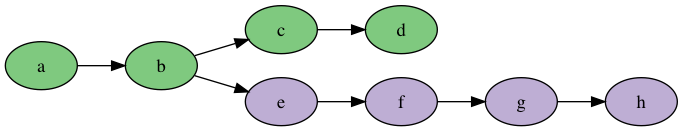
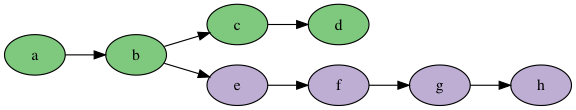
git -- size of images

diff --git a/git.html b/git.html
@@ -4,7 +4,7 @@
 <html xmlns="http://www.w3.org/1999/xhtml" lang="en" xml:lang="en">
 <head>
 <title>Getting Started with Git</title>
-<!-- 2017-03-30 Thu 08:39 -->
+<!-- 2017-03-30 Thu 08:53 -->
 <meta  http-equiv="Content-Type" content="text/html;charset=utf-8" />
 <meta  name="generator" content="Org-mode" />
 <meta  name="author" content="Mikael Svahnberg" />
@@ -306,7 +306,7 @@ Branches have names. The default names are <code>master</code> and <code>origin/
 
 
 <div class="figure">
-<p><img src="./images/FGitBranch2.png" alt="FGitBranch2.png" />
+<p><img src="./images/FGitBranch3.png" alt="FGitBranch3.png" />
 </p>
 </div>
 
@@ -727,7 +727,7 @@ For regular documents it is also possible to use the web interface on github to 
 <div id="postamble" class="status">
 <p class="author">Author: Mikael Svahnberg</p>
 <p class="email">Email: <a href="mailto:Mikael.Svahnberg@bth.se">Mikael.Svahnberg@bth.se</a></p>
-<p class="date">Created: 2017-03-30 Thu 08:39</p>
+<p class="date">Created: 2017-03-30 Thu 08:53</p>
 <p class="creator"><a href="http://www.gnu.org/software/emacs/">Emacs</a> 25.1.1 (<a href="http://orgmode.org">Org</a> mode 8.2.10)</p>
 <p class="validation"><a href="http://validator.w3.org/check?uri=referer">Validate</a></p>
 </div>

diff --git a/SEM-Requirements.html b/SEM-Requirements.html
@@ -4,7 +4,7 @@
 <html xmlns="http://www.w3.org/1999/xhtml" lang="en" xml:lang="en">
 <head>
 <title>Seminar: Requirements, Use Cases, Project Planning</title>
-<!-- 2017-03-30 Thu 08:43 -->
+<!-- 2017-03-30 Thu 08:53 -->
 <meta  http-equiv="Content-Type" content="text/html;charset=utf-8" />
 <meta  name="generator" content="Org-mode" />
 <meta  name="author" content="Mikael Svahnberg" />
@@ -245,7 +245,7 @@ The purpose of this seminar is to get a quick recap on the topics of requirement
 <div id="postamble" class="status">
 <p class="author">Author: Mikael Svahnberg</p>
 <p class="email">Email: <a href="mailto:Mikael.Svahnberg@bth.se">Mikael.Svahnberg@bth.se</a></p>
-<p class="date">Created: 2017-03-30 Thu 08:43</p>
+<p class="date">Created: 2017-03-30 Thu 08:53</p>
 <p class="creator"><a href="http://www.gnu.org/software/emacs/">Emacs</a> 25.1.1 (<a href="http://orgmode.org">Org</a> mode 8.2.10)</p>
 <p class="validation"><a href="http://validator.w3.org/check?uri=referer">Validate</a></p>
 </div>

diff --git a/SEM-Structure.html b/SEM-Structure.html
@@ -4,7 +4,7 @@
 <html xmlns="http://www.w3.org/1999/xhtml" lang="en" xml:lang="en">
 <head>
 <title>Seminar: Structure and Design Patterns</title>
-<!-- 2017-03-30 Thu 08:43 -->
+<!-- 2017-03-30 Thu 08:53 -->
 <meta  http-equiv="Content-Type" content="text/html;charset=utf-8" />
 <meta  name="generator" content="Org-mode" />
 <meta  name="author" content="Mikael Svahnberg" />
@@ -218,7 +218,7 @@ The purpose of this seminar is to further discuss UML Concepts and Classes, and 
 <div id="postamble" class="status">
 <p class="author">Author: Mikael Svahnberg</p>
 <p class="email">Email: <a href="mailto:Mikael.Svahnberg@bth.se">Mikael.Svahnberg@bth.se</a></p>
-<p class="date">Created: 2017-03-30 Thu 08:43</p>
+<p class="date">Created: 2017-03-30 Thu 08:53</p>
 <p class="creator"><a href="http://www.gnu.org/software/emacs/">Emacs</a> 25.1.1 (<a href="http://orgmode.org">Org</a> mode 8.2.10)</p>
 <p class="validation"><a href="http://validator.w3.org/check?uri=referer">Validate</a></p>
 </div>

diff --git a/SEM-Release3.html b/SEM-Release3.html
@@ -4,7 +4,7 @@
 <html xmlns="http://www.w3.org/1999/xhtml" lang="en" xml:lang="en">
 <head>
 <title>Seminar: Demo and Discuss Release 3</title>
-<!-- 2017-03-30 Thu 08:43 -->
+<!-- 2017-03-30 Thu 08:53 -->
 <meta  http-equiv="Content-Type" content="text/html;charset=utf-8" />
 <meta  name="generator" content="Org-mode" />
 <meta  name="author" content="Mikael Svahnberg" />
@@ -199,7 +199,7 @@ There is no specific agenda for this seminar, but rather a discussion between th
 <div id="postamble" class="status">
 <p class="author">Author: Mikael Svahnberg</p>
 <p class="email">Email: <a href="mailto:Mikael.Svahnberg@bth.se">Mikael.Svahnberg@bth.se</a></p>
-<p class="date">Created: 2017-03-30 Thu 08:43</p>
+<p class="date">Created: 2017-03-30 Thu 08:53</p>
 <p class="creator"><a href="http://www.gnu.org/software/emacs/">Emacs</a> 25.1.1 (<a href="http://orgmode.org">Org</a> mode 8.2.10)</p>
 <p class="validation"><a href="http://validator.w3.org/check?uri=referer">Validate</a></p>
 </div>

diff --git a/System-TwitterNethack.html b/System-TwitterNethack.html
@@ -4,7 +4,7 @@
 <html xmlns="http://www.w3.org/1999/xhtml" lang="en" xml:lang="en">
 <head>
 <title>System Description: TwitterNethack</title>
-<!-- 2017-03-30 Thu 08:43 -->
+<!-- 2017-03-30 Thu 08:53 -->
 <meta  http-equiv="Content-Type" content="text/html;charset=utf-8" />
 <meta  name="generator" content="Org-mode" />
 <meta  name="author" content="Mikael Svahnberg" />
@@ -343,7 +343,7 @@ We do not expect these extras to be implemented in your version of your system. 
 <div id="postamble" class="status">
 <p class="author">Author: Mikael Svahnberg</p>
 <p class="email">Email: <a href="mailto:Mikael.Svahnberg@bth.se">Mikael.Svahnberg@bth.se</a></p>
-<p class="date">Created: 2017-03-30 Thu 08:43</p>
+<p class="date">Created: 2017-03-30 Thu 08:53</p>
 <p class="creator"><a href="http://www.gnu.org/software/emacs/">Emacs</a> 25.1.1 (<a href="http://orgmode.org">Org</a> mode 8.2.10)</p>
 <p class="validation"><a href="http://validator.w3.org/check?uri=referer">Validate</a></p>
 </div>

diff --git a/SEM-Architecture.html b/SEM-Architecture.html
@@ -4,7 +4,7 @@
 <html xmlns="http://www.w3.org/1999/xhtml" lang="en" xml:lang="en">
 <head>
 <title>Seminar: Software Architectures</title>
-<!-- 2017-03-30 Thu 08:43 -->
+<!-- 2017-03-30 Thu 08:53 -->
 <meta  http-equiv="Content-Type" content="text/html;charset=utf-8" />
 <meta  name="generator" content="Org-mode" />
 <meta  name="author" content="Mikael Svahnberg" />
@@ -208,7 +208,7 @@ The purpose of this seminar is to further discuss common Software Architecture P
 <div id="postamble" class="status">
 <p class="author">Author: Mikael Svahnberg</p>
 <p class="email">Email: <a href="mailto:Mikael.Svahnberg@bth.se">Mikael.Svahnberg@bth.se</a></p>
-<p class="date">Created: 2017-03-30 Thu 08:43</p>
+<p class="date">Created: 2017-03-30 Thu 08:53</p>
 <p class="creator"><a href="http://www.gnu.org/software/emacs/">Emacs</a> 25.1.1 (<a href="http://orgmode.org">Org</a> mode 8.2.10)</p>
 <p class="validation"><a href="http://validator.w3.org/check?uri=referer">Validate</a></p>
 </div>

diff --git a/SEM-Release1.html b/SEM-Release1.html
@@ -4,7 +4,7 @@
 <html xmlns="http://www.w3.org/1999/xhtml" lang="en" xml:lang="en">
 <head>
 <title>Seminar: Discuss Release 1</title>
-<!-- 2017-03-30 Thu 08:43 -->
+<!-- 2017-03-30 Thu 08:53 -->
 <meta  http-equiv="Content-Type" content="text/html;charset=utf-8" />
 <meta  name="generator" content="Org-mode" />
 <meta  name="author" content="Mikael Svahnberg" />
@@ -194,7 +194,7 @@ The purpose of this seminar is to discuss common issues identified while marking
 <div id="postamble" class="status">
 <p class="author">Author: Mikael Svahnberg</p>
 <p class="email">Email: <a href="mailto:Mikael.Svahnberg@bth.se">Mikael.Svahnberg@bth.se</a></p>
-<p class="date">Created: 2017-03-30 Thu 08:43</p>
+<p class="date">Created: 2017-03-30 Thu 08:53</p>
 <p class="creator"><a href="http://www.gnu.org/software/emacs/">Emacs</a> 25.1.1 (<a href="http://orgmode.org">Org</a> mode 8.2.10)</p>
 <p class="validation"><a href="http://validator.w3.org/check?uri=referer">Validate</a></p>
 </div>

diff --git a/SEM-Release2.html b/SEM-Release2.html
@@ -4,7 +4,7 @@
 <html xmlns="http://www.w3.org/1999/xhtml" lang="en" xml:lang="en">
 <head>
 <title>Seminar: Discuss Release 2</title>
-<!-- 2017-03-30 Thu 08:43 -->
+<!-- 2017-03-30 Thu 08:53 -->
 <meta  http-equiv="Content-Type" content="text/html;charset=utf-8" />
 <meta  name="generator" content="Org-mode" />
 <meta  name="author" content="Mikael Svahnberg" />
@@ -194,7 +194,7 @@ The purpose of this seminar is to discuss common issues identified while marking
 <div id="postamble" class="status">
 <p class="author">Author: Mikael Svahnberg</p>
 <p class="email">Email: <a href="mailto:Mikael.Svahnberg@bth.se">Mikael.Svahnberg@bth.se</a></p>
-<p class="date">Created: 2017-03-30 Thu 08:43</p>
+<p class="date">Created: 2017-03-30 Thu 08:53</p>
 <p class="creator"><a href="http://www.gnu.org/software/emacs/">Emacs</a> 25.1.1 (<a href="http://orgmode.org">Org</a> mode 8.2.10)</p>
 <p class="validation"><a href="http://validator.w3.org/check?uri=referer">Validate</a></p>
 </div>

diff --git a/Development-Methodologies.html b/Development-Methodologies.html
@@ -4,7 +4,7 @@
 <html xmlns="http://www.w3.org/1999/xhtml" lang="en" xml:lang="en">
 <head>
 <title>Development Methodologies</title>
-<!-- 2017-03-30 Thu 08:44 -->
+<!-- 2017-03-30 Thu 08:53 -->
 <meta  http-equiv="Content-Type" content="text/html;charset=utf-8" />
 <meta  name="generator" content="Org-mode" />
 <meta  name="author" content="Mikael Svahnberg" />
@@ -698,7 +698,7 @@ T. Gorschek, E. Tempero, L. Angelis, <i>On the use of software design models in 
 <div id="postamble" class="status">
 <p class="author">Author: Mikael Svahnberg</p>
 <p class="email">Email: <a href="mailto:Mikael.Svahnberg@bth.se">Mikael.Svahnberg@bth.se</a></p>
-<p class="date">Created: 2017-03-30 Thu 08:44</p>
+<p class="date">Created: 2017-03-30 Thu 08:53</p>
 <p class="creator"><a href="http://www.gnu.org/software/emacs/">Emacs</a> 25.1.1 (<a href="http://orgmode.org">Org</a> mode 8.2.10)</p>
 <p class="validation"><a href="http://validator.w3.org/check?uri=referer">Validate</a></p>
 </div>

diff --git a/Requirements-Engineering.html b/Requirements-Engineering.html
@@ -4,7 +4,7 @@
 <html xmlns="http://www.w3.org/1999/xhtml" lang="en" xml:lang="en">
 <head>
 <title>Requirements Engineering</title>
-<!-- 2017-03-30 Thu 08:43 -->
+<!-- 2017-03-30 Thu 08:53 -->
 <meta  http-equiv="Content-Type" content="text/html;charset=utf-8" />
 <meta  name="generator" content="Org-mode" />
 <meta  name="author" content="Mikael Svahnberg" />
@@ -834,7 +834,7 @@ J. Karlsson and K. Ryan. A cost-value approach for prioritizing requirements. IE
 <div id="postamble" class="status">
 <p class="author">Author: Mikael Svahnberg</p>
 <p class="email">Email: <a href="mailto:Mikael.Svahnberg@bth.se">Mikael.Svahnberg@bth.se</a></p>
-<p class="date">Created: 2017-03-30 Thu 08:43</p>
+<p class="date">Created: 2017-03-30 Thu 08:53</p>
 <p class="creator"><a href="http://www.gnu.org/software/emacs/">Emacs</a> 25.1.1 (<a href="http://orgmode.org">Org</a> mode 8.2.10)</p>
 <p class="validation"><a href="http://validator.w3.org/check?uri=referer">Validate</a></p>
 </div>

diff --git a/SEM-OpenDiscussion.html b/SEM-OpenDiscussion.html
@@ -4,7 +4,7 @@
 <html xmlns="http://www.w3.org/1999/xhtml" lang="en" xml:lang="en">
 <head>
 <title>Seminar: Open Discussion</title>
-<!-- 2017-03-30 Thu 08:43 -->
+<!-- 2017-03-30 Thu 08:53 -->
 <meta  http-equiv="Content-Type" content="text/html;charset=utf-8" />
 <meta  name="generator" content="Org-mode" />
 <meta  name="author" content="Mikael Svahnberg" />
@@ -184,7 +184,7 @@ The purpose of this seminar is to discuss any questions you may have and any lea
 <div id="postamble" class="status">
 <p class="author">Author: Mikael Svahnberg</p>
 <p class="email">Email: <a href="mailto:Mikael.Svahnberg@bth.se">Mikael.Svahnberg@bth.se</a></p>
-<p class="date">Created: 2017-03-30 Thu 08:43</p>
+<p class="date">Created: 2017-03-30 Thu 08:53</p>
 <p class="creator"><a href="http://www.gnu.org/software/emacs/">Emacs</a> 25.1.1 (<a href="http://orgmode.org">Org</a> mode 8.2.10)</p>
 <p class="validation"><a href="http://validator.w3.org/check?uri=referer">Validate</a></p>
 </div>

diff --git a/QnA.html b/QnA.html
@@ -4,7 +4,7 @@
 <html xmlns="http://www.w3.org/1999/xhtml" lang="en" xml:lang="en">
 <head>
 <title>Questions and Answers</title>
-<!-- 2017-03-30 Thu 08:43 -->
+<!-- 2017-03-30 Thu 08:53 -->
 <meta  http-equiv="Content-Type" content="text/html;charset=utf-8" />
 <meta  name="generator" content="Org-mode" />
 <meta  name="author" content="Mikael Svahnberg" />
@@ -241,7 +241,7 @@ However, if you are not busy with another lecture and if there is room for you, 
 <div id="postamble" class="status">
 <p class="author">Author: Mikael Svahnberg</p>
 <p class="email">Email: <a href="mailto:Mikael.Svahnberg@bth.se">Mikael.Svahnberg@bth.se</a></p>
-<p class="date">Created: 2017-03-30 Thu 08:43</p>
+<p class="date">Created: 2017-03-30 Thu 08:53</p>
 <p class="creator"><a href="http://www.gnu.org/software/emacs/">Emacs</a> 25.1.1 (<a href="http://orgmode.org">Org</a> mode 8.2.10)</p>
 <p class="validation"><a href="http://validator.w3.org/check?uri=referer">Validate</a></p>
 </div>
